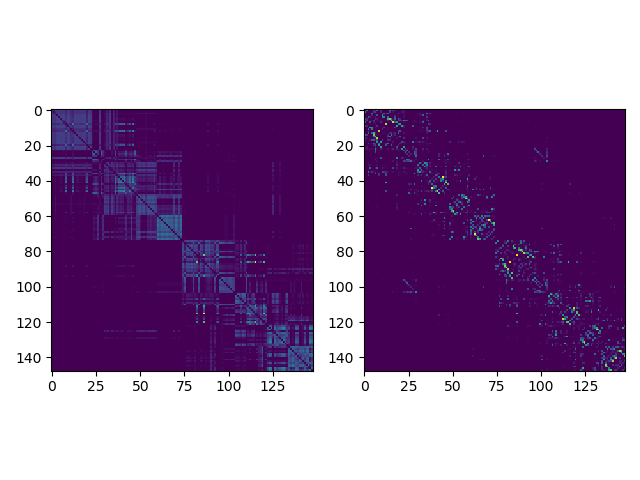
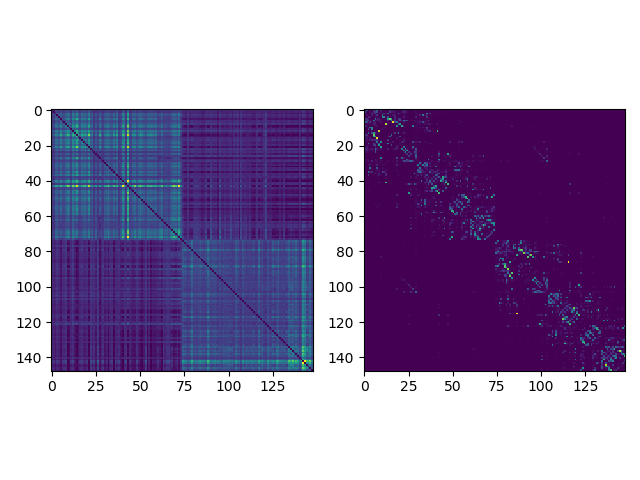
Spatial Loss Added

diff --git a/Longitudinal_Classifier/ReconNet.py b/Longitudinal_Classifier/ReconNet.py
@@ -9,14 +9,20 @@ from Longitudinal_Classifier.helper import *
 from matplotlib import pyplot as plt
 from utils.sortDetriuxNodes import sort_matrix
 from Longitudinal_Classifier.logger import Logger
-
 start = timeit.default_timer()
 # Prepare data
 data, count = read_all_subjects(classes=[0, 1, 2, 3], conv_to_tensor=False)
+
+# Structural Mask
 net = get_aggr_net(data)
 net = normalize_net(net)
 net[net > 0] = 1
 net = torch.LongTensor(net).to(Args.device)
+
+# Cortico Spatial Network
+csg = torch.FloatTensor(np.loadtxt('/home/mturja/tmp/AD-Long/cortico_spatial_graph.txt'))
+csg[csg < 0.005] = 0
+csg = (torch.eye(Args.n_nodes) - csg).to(Args.device)
 
 count = 1 / count
 count[torch.isinf(count)] = 0
@@ -45,7 +51,7 @@ test_loader = loader.DataLoader(test_data, batch_size=32)
 S, S_con = get_cluster_assignment_matrix()
 S = torch.FloatTensor(S).unsqueeze(0).to(Args.device)
 
-model = ReconNet(gcn_feat=[16, 164, 32, 16])
+model = ReconNet(gcn_feat=[164, 64, 64])
 model.to(Args.device)
 
 I_prime = (1 - torch.eye(Args.n_nodes, Args.n_nodes).unsqueeze(0)).to(Args.device)
@@ -64,26 +70,28 @@ def train_baseline(epoch):
         # data.x = (data.x - torch.mean(data.x, dim=0)) / torch.std(data.x, dim=0)
         # data.x = normalize_feat(data.x)
         optimizer.zero_grad()
-        recon, mask = model(data)
+        recon, x, x_loss = model(data)
         # KLD = -0.5 / Args.n_nodes * torch.mean(torch.sum(
         #     1 + 2 * logvar - mu.pow(2) - logvar.exp().pow(2), 1))
         gt = to_dense_adj(data.edge_index, batch=data.batch, edge_attr=data.edge_attr)
         # loss_mask = torch.mean(-net * torch.log(mask+1e-5) - (1 - net) * torch.log(1 - mask + 1e-5)) + torch.mean(mask * torch.log(1 - mask + 1e-5))
-        loss = F.mse_loss(recon, gt, reduce=None)
+        recon_loss = F.mse_loss(recon, gt, reduce=None)
+        spatial_loss = torch.sum(torch.matmul(torch.matmul(torch.transpose(x, 1, 2), csg), x) * torch.eye(x.size(2)).to(Args.device))
         # loss = loss + loss_mask + torch.mean(torch.abs(mask))
         n = recon.size(1)
-        l1_loss_1 = torch.sum(torch.abs(recon)[:, 0:n//2, n//2:n]) + torch.sum(torch.abs(recon)[:, n//2:n, 0:n//2])
-        l1_loss_2 = torch.sum(torch.abs(recon)[:, 0:n // 2, 0:n // 2]) + torch.sum(torch.abs(recon)[:, n // 2:n, n // 2:n])
+        # l1_loss_1 = torch.sum(torch.abs(recon)[:, 0:n//2, n//2:n]) + torch.sum(torch.abs(recon)[:, n//2:n, 0:n//2])
+        # l1_loss_2 = torch.sum(torch.abs(recon)[:, 0:n // 2, 0:n // 2]) + torch.sum(torch.abs(recon)[:, n // 2:n, n // 2:n])
 
         # modularity_loss_inter = torch.sum(torch.matmul(torch.matmul(torch.transpose(S, 1, 2), recon), S))
         # modularity_loss_intra = torch.sum(torch.matmul(S, torch.transpose(S, 1, 2)) * I_prime * recon)
-        loss = 1e2*loss + 1e-4*l1_loss_1 + 1e-6*l1_loss_2
+        loss = 1e3 * recon_loss + x_loss + 1e-2*spatial_loss
         loss.backward()
         optimizer.step()
 
         if i == 0 and epoch % 20 == 0:
+            # print("Loss: {:.3f}, Spatial Loss: {:.3f}, L1 Loss 1: {:.3f}, L1 Loss 2: {:.3f}".format(loss.data, spatial_loss.data, l1_loss_1.data, l1_loss_2.data))
             # 1. Log scalar values (scalar summary)
-            info = {'loss': loss.item(), 'accuracy': accuracy.item()}
+            info = {'recon_loss': recon_loss.item(), 'recon_loss_x': x_loss, 'spatial_loss': spatial_loss}
 
             for tag, value in info.items():
                 logger.scalar_summary(tag, value, epoch + 1)
@@ -95,10 +103,10 @@ def train_baseline(epoch):
                 logger.histo_summary(tag + '/grad', value.grad.data.cpu().numpy(), epoch + 1)
 
             # 3. Log training images (image summary)
-            info = {'images': images.view(-1, 28, 28)[:10].cpu().numpy()}
-
-            for tag, images in info.items():
-                logger.image_summary(tag, images, epoch + 1)
+            # info = {'images': gt[:10].cpu().numpy()}
+            #
+            # for tag, images in info.items():
+            #     logger.image_summary(tag, images, epoch + 1)
 
             torch.save({
                 'epoch': epoch,
@@ -119,13 +127,13 @@ def test(epoch):
         i = 0
         for data in test_loader:
             data = data.to(Args.device)
-            recon, mask = model(data)
+            recon, x, _ = model(data)
             gt = to_dense_adj(data.edge_index, batch=data.batch, edge_attr=data.edge_attr)
             loss += F.mse_loss(recon, gt, reduce=None)
             N = N + data.num_graphs
             gt = to_dense_adj(data.edge_index, batch=data.batch, edge_attr=data.edge_attr)
 
-            if i == 0 and epoch % 100 == 0:
+            if i == 0 and epoch % 200 == 0:
                 plt.subplot(1, 2, 1)
                 plt.imshow(sort_matrix(recon[0].detach().cpu().data.numpy())[0])
                 plt.subplot(1, 2, 2)
@@ -149,6 +157,7 @@ if __name__ == '__main__':
         if i % 50 == 0:
             print("Epoch: {}, Train Loss: {:0.5f}, Test Loss: {:0.5f}".format(i, loss_tr * 1e3, loss_ts * 1e3))
 
+    logger.close()
     plt.plot(loss_train, 'r')
     plt.plot(loss_test, 'b')
     plt.show()

diff --git a/Longitudinal_Classifier/model.py b/Longitudinal_Classifier/model.py
@@ -218,48 +218,36 @@ class ReconNet(nn.Module):
         super(ReconNet, self).__init__()
         self.gcn_layer = []
         # self.sum_feat = sum(gcn_feat) - gcn_feat[0]
-        self.sum_feat = gcn_feat[-1]
-        self.encode = nn.Sequential(nn.Linear(gcn_feat[0], gcn_feat[1]), nn.ReLU())
-        self.rho_mean = nn.Sequential(nn.Linear(self.sum_feat, self.sum_feat), nn.ReLU())
-        self.rho_std = nn.Sequential(nn.Linear(self.sum_feat, self.sum_feat), nn.ReLU())
-        for i in range(1, len(gcn_feat) - 1):
+        # self.sum_feat = gcn_feat[-1]
+        self.decode = nn.Sequential(nn.Linear(gcn_feat[-1], 8), nn.ReLU())
+        # self.rho_mean = nn.Sequential(nn.Linear(self.sum_feat, self.sum_feat), nn.ReLU())
+        # self.rho_std = nn.Sequential(nn.Linear(self.sum_feat, self.sum_feat), nn.ReLU())
+        for i in range(0, len(gcn_feat) - 1):
             self.gcn_layer.append(SAGEConv(gcn_feat[i], gcn_feat[i+1], normalize=True))
-            self.add_module('GCN_{}'.format(i-1), self.gcn_layer[i-1])
-            nn.init.normal_(self.gcn_layer[i-1].weight, 0, 1)
-
-    def reparameterize(self, mu, logvar):
-        if self.training:
-            std = torch.exp(logvar)
-            eps = torch.randn_like(std)
-            return eps.mul(std).add_(mu)
-        else:
-            return mu
+            self.add_module('GCN_{}'.format(i), self.gcn_layer[i])
+            nn.init.normal_(self.gcn_layer[i].weight, 0, 1)
 
     def forward(self, g):
-        x, edge_index, edge_attr, batch, batch_size = g.x, g.edge_index, g.edge_attr, g.batch, g.num_graphs
-        # x = self.encode(x)
+        x_orig, edge_index, edge_attr, batch, batch_size = g.x, g.edge_index, g.edge_attr, g.batch, g.num_graphs
         for i, l in enumerate(self.gcn_layer):
-            x_new = l(x=x, edge_index=edge_index, edge_weight=edge_attr)
-            x_new = F.relu(x_new)
+            if i == 0:
+                x = l(x=x_orig, edge_index=edge_index, edge_weight=edge_attr)
+            else:
+                x = l(x=x, edge_index=edge_index, edge_weight=edge_attr)
+            x = F.relu(x)
             if i < len(self.gcn_layer) - 1:
-                x_new = F.dropout(x_new)
-            # if i == 0:
-            #     x_multi = x
-            # x_multi = torch.cat((x_multi, x_new), dim=1)
-            x = x_new
-        # x_multi = x_multi.view(batch_size, -1, x_multi.size(1))
+                x = F.dropout(x)
+        x_orig = x_orig.view(batch_size, -1, x_orig.size(1))
         x = x.view(batch_size, -1, x.size(1))
-        mu = self.rho_mean(x)
-        logvar = self.rho_std(x)
-        # z = self.reparameterize(mu, logvar)
-        # x_std = x.std(dim=2, keepdim=True)
-        # x = (x - x.mean(dim=2, keepdim=True)) / x_std
-        A_recon = torch.matmul(mu, torch.transpose(mu, 1, 2)) * I_prime
-        A_mask = torch.sigmoid(torch.matmul(logvar, torch.transpose(logvar, 1, 2))) * I_prime
-        deg = (torch.sum(A_recon, dim=1, keepdim=True) + 1e-10) ** (-0.5)
-        norm = torch.matmul(torch.transpose(deg, 1, 2), deg)
-        A_recon = A_recon * norm
-        return A_recon, A_mask
+        # x = x / x.norm(p=2, dim=2, keepdim=True)
+        x_recon = self.decode(x)
+        A_recon = torch.matmul(x, torch.transpose(x, 1, 2)) * I_prime
+        # A_mask = torch.sigmoid(torch.matmul(logvar, torch.transpose(logvar, 1, 2))) * I_prime
+        # deg = (torch.sum(A_recon, dim=1, keepdim=True) + 1e-10) ** (-0.5)
+        # norm = torch.matmul(torch.transpose(deg, 1, 2), deg)
+        # A_recon = A_recon * norm
+        # A_recon = torch.sigmoid(A_recon)
+        return A_recon, x, F.mse_loss(x_recon, x_orig[:,:,:8])
 
 class LinearGraphVAE(nn.Module):
     def __init__(self):

diff --git a/Longitudinal_Classifier/logger.py b/Longitudinal_Classifier/logger.py
@@ -1,72 +1,21 @@
 # Code referenced from https://gist.github.com/gyglim/1f8dfb1b5c82627ae3efcfbbadb9f514
-import tensorflow as tf
+from torch.utils.tensorboard import SummaryWriter
 import numpy as np
 import scipy.misc
-
-try:
-    from StringIO import StringIO  # Python 2.7
-except ImportError:
-    from io import BytesIO  # Python 3.x
+import torchvision
 
 
 class Logger(object):
-
     def __init__(self, log_dir):
         """Create a summary writer logging to log_dir."""
-        self.writer = tf.summary.FileWriter(log_dir)
+        self.writer = SummaryWriter()
 
     def scalar_summary(self, tag, value, step):
         """Log a scalar variable."""
-        summary = tf.Summary(value=[tf.Summary.Value(tag=tag, simple_value=value)])
-        self.writer.add_summary(summary, step)
+        self.writer.add_scalar(tag, value, step)
 
-    def image_summary(self, tag, images, step):
-        """Log a list of images."""
+    def histo_summary(self, tag, value, step):
+        self.writer.add_histogram(tag, value, step)
 
-        img_summaries = []
-        for i, img in enumerate(images):
-            # Write the image to a string
-            try:
-                s = StringIO()
-            except:
-                s = BytesIO()
-            scipy.misc.toimage(img).save(s, format="png")
-
-            # Create an Image object
-            img_sum = tf.Summary.Image(encoded_image_string=s.getvalue(),
-                                       height=img.shape[0],
-                                       width=img.shape[1])
-            # Create a Summary value
-            img_summaries.append(tf.Summary.Value(tag='%s/%d' % (tag, i), image=img_sum))
-
-        # Create and write Summary
-        summary = tf.Summary(value=img_summaries)
-        self.writer.add_summary(summary, step)
-
-    def histo_summary(self, tag, values, step, bins=1000):
-        """Log a histogram of the tensor of values."""
-
-        # Create a histogram using numpy
-        counts, bin_edges = np.histogram(values, bins=bins)
-
-        # Fill the fields of the histogram proto
-        hist = tf.HistogramProto()
-        hist.min = float(np.min(values))
-        hist.max = float(np.max(values))
-        hist.num = int(np.prod(values.shape))
-        hist.sum = float(np.sum(values))
-        hist.sum_squares = float(np.sum(values ** 2))
-
-        # Drop the start of the first bin
-        bin_edges = bin_edges[1:]
-
-        # Add bin edges and counts
-        for edge in bin_edges:
-            hist.bucket_limit.append(edge)
-        for c in counts:
-            hist.bucket.append(c)
-
-        # Create and write Summary
-        summary = tf.Summary(value=[tf.Summary.Value(tag=tag, histo=hist)])
-        self.writer.add_summary(summary, step)
-        self.writer.flush()
+    def close(self):
+        self.writer.close()

diff --git a/utils/create_spatial_graph.py b/utils/create_spatial_graph.py
@@ -36,7 +36,7 @@ class CorticoSpatialGraph:
 
 
 if __name__ == '__main__':
-    csg = CorticoSpatialGraph('S88071_parcellationTable.json')
+    csg = CorticoSpatialGraph('S146119_parcellationTable.json')
     adj = csg.compute_graph().numpy()
     np.savetxt(Args.base_dir + '/cortico_spatial_graph.txt', adj)
 
